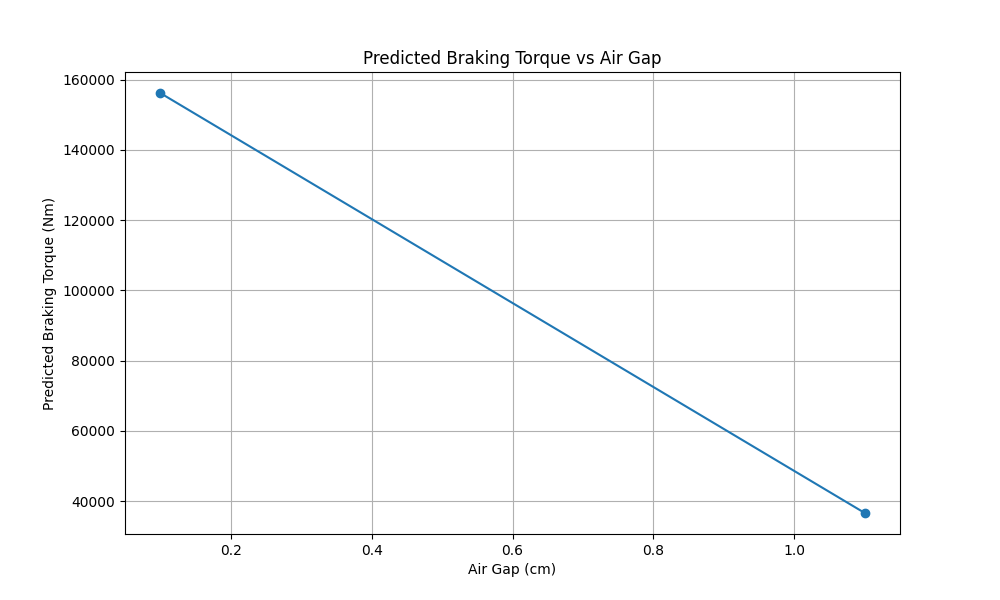
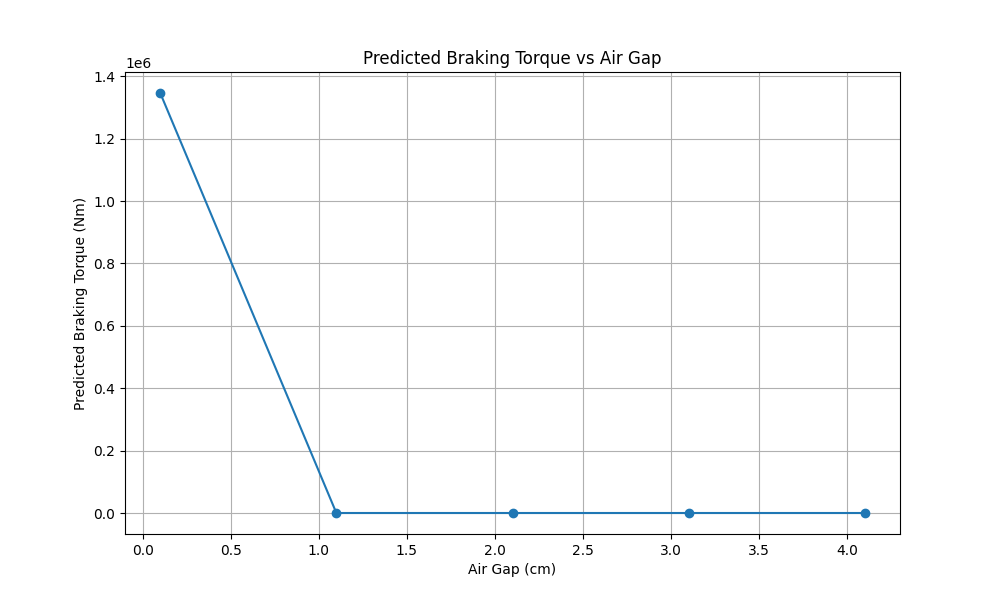
Initial Commit

diff --git a/main.py b/main.py
@@ -152,7 +152,7 @@ pyplot.savefig("Braking Torque - Activation Current.png")
 pyplot.show()
 
 # Generate a range of values for air gap (0.1 to 1.5)
-air_gap_values = np.arange(0.1, 1.5)
+air_gap_values = np.arange(0.1, 5.0)
 
 # Prepare a list to hold the predicted braking torque values
 predicted_torque_values = []
